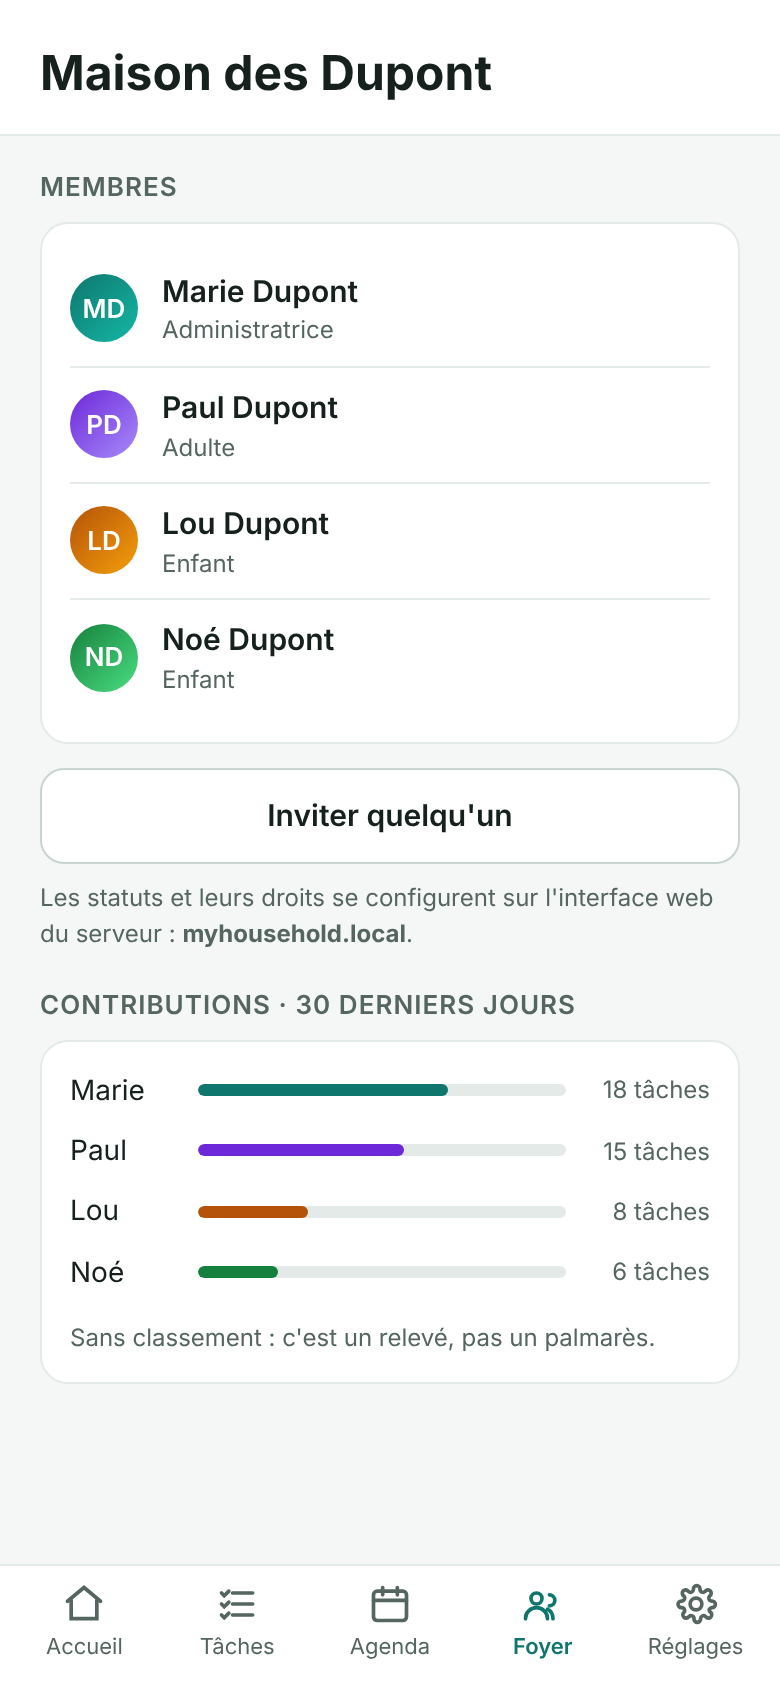
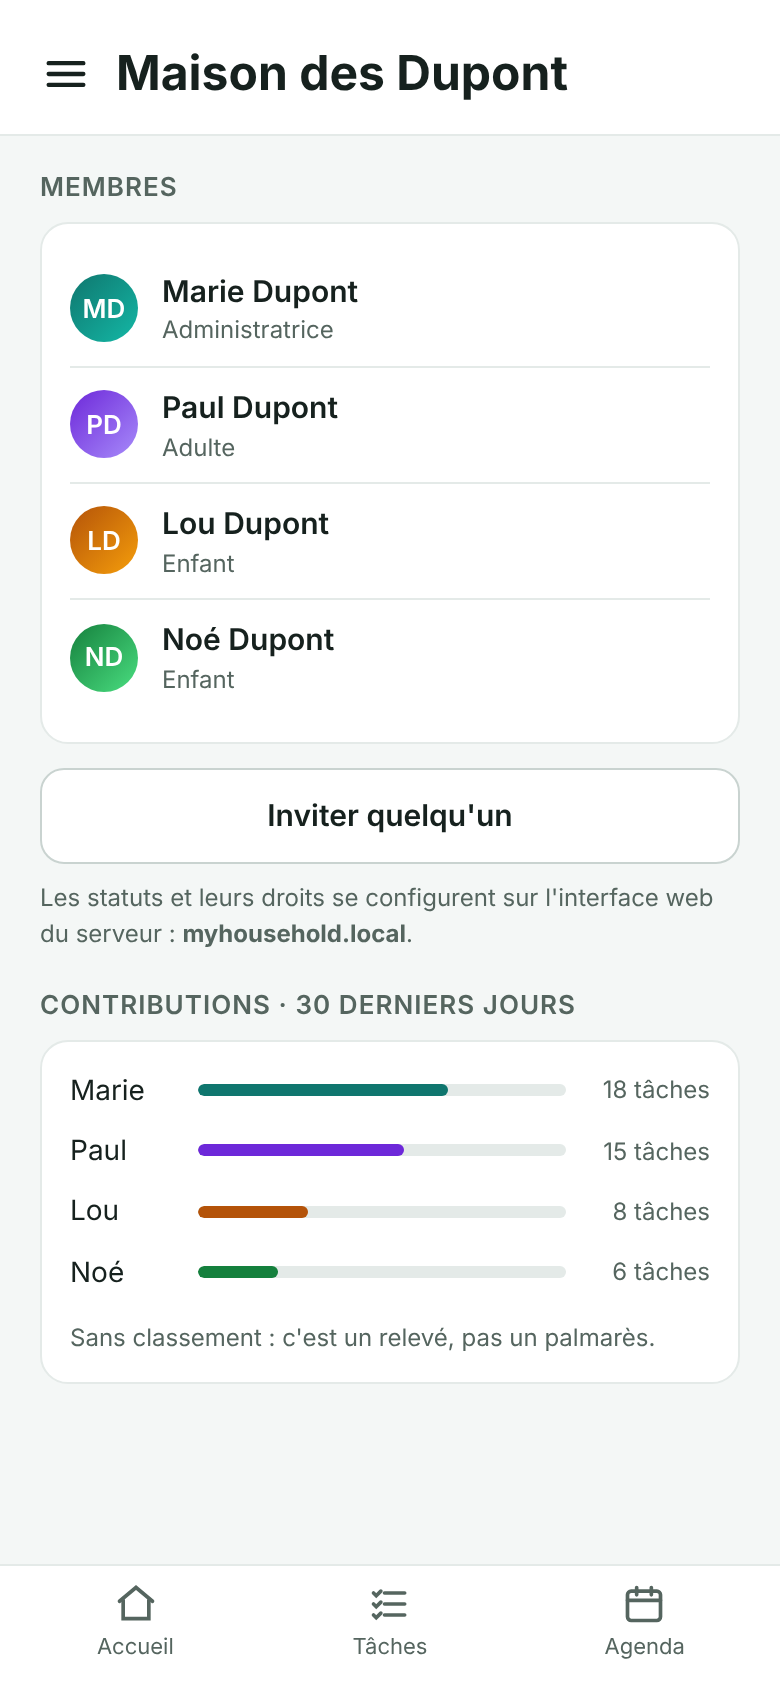
docs(maquettes): Réglages et Foyer avec le menu ☰ et trois onglets
Claude-Session: https://claude.ai/code/session_01CwM8UZavZyFdh7jkANxEp5

diff --git a/docs/mockups/7-reglages.html b/docs/mockups/7-reglages.html
@@ -1,7 +1,7 @@
 <!doctype html>
 <html lang="fr"><head><meta charset="utf-8"><title>Réglages</title><link rel="stylesheet" href="app.css"></head>
 <body>
-  <header class="entete"><h1>Réglages</h1></header>
+  <header class="entete"><div class="ligne"><svg viewBox="0 0 24 24" width="26" height="26" fill="none" stroke="currentColor" stroke-width="2" stroke-linecap="round"><path d="M4 7h16M4 12h16M4 17h16"/></svg><h1>Réglages</h1></div></header>
 
   <div class="corps" style="gap:16px">
     <div class="carte">
@@ -51,7 +51,5 @@
   <div class="N1"><svg viewBox="0 0 24 24" fill="none" stroke="currentColor" stroke-width="2" stroke-linecap="round"><path d="M3 10.5 12 3l9 7.5"/><path d="M5 10v10h14V10"/></svg>Accueil</div>
   <div class="N2"><svg viewBox="0 0 24 24" fill="none" stroke="currentColor" stroke-width="2" stroke-linecap="round"><path d="M9 6h11M9 12h11M9 18h11"/><path d="m3 6 1.5 1.5L7 5M3 12l1.5 1.5L7 11M3 18l1.5 1.5L7 17"/></svg>Tâches</div>
   <div class="N3"><svg viewBox="0 0 24 24" fill="none" stroke="currentColor" stroke-width="2" stroke-linecap="round"><rect x="3" y="5" width="18" height="16" rx="2"/><path d="M8 3v4M16 3v4M3 10h18"/></svg>Agenda</div>
-  <div class="N4"><svg viewBox="0 0 24 24" fill="none" stroke="currentColor" stroke-width="2" stroke-linecap="round"><circle cx="9" cy="9" r="3"/><path d="M3 20a6 6 0 0 1 12 0M16 7a3 3 0 0 1 0 6M18 20a6 6 0 0 0-3-5.2"/></svg>Foyer</div>
-  <div class="N5 actif"><svg viewBox="0 0 24 24" fill="none" stroke="currentColor" stroke-width="2" stroke-linecap="round"><circle cx="12" cy="12" r="3.2"/><path d="M19.4 14.5a1.6 1.6 0 0 0 .3 1.8l.1.1a1.8 1.8 0 1 1-2.5 2.5l-.1-.1a1.6 1.6 0 0 0-2.7 1.1v.3a1.8 1.8 0 1 1-3.6 0v-.2a1.6 1.6 0 0 0-2.7-1.2l-.1.1a1.8 1.8 0 1 1-2.5-2.5l.1-.1A1.6 1.6 0 0 0 4 14a1.8 1.8 0 0 1 0-3.6h.2A1.6 1.6 0 0 0 5.4 7.7l-.1-.1a1.8 1.8 0 1 1 2.5-2.5l.1.1a1.6 1.6 0 0 0 2.7-1.1V3.8a1.8 1.8 0 1 1 3.6 0V4a1.6 1.6 0 0 0 2.7 1.2l.1-.1a1.8 1.8 0 1 1 2.5 2.5l-.1.1a1.6 1.6 0 0 0 1.1 2.7h.3a1.8 1.8 0 1 1 0 3.6h-.2a1.6 1.6 0 0 0-1.2 1z"/></svg>Réglages</div>
 </nav>
 </body></html>

diff --git a/docs/mockups/6-foyer.html b/docs/mockups/6-foyer.html
@@ -3,7 +3,7 @@
 <body>
   <!-- Pas de sous-titre : « 4 membres · Europe/Paris » disait ce que la
        liste juste en dessous montre déjà. -->
-  <header class="entete"><h1>Maison des Dupont</h1></header>
+  <header class="entete"><div class="ligne"><svg viewBox="0 0 24 24" width="26" height="26" fill="none" stroke="currentColor" stroke-width="2" stroke-linecap="round"><path d="M4 7h16M4 12h16M4 17h16"/></svg><h1>Maison des Dupont</h1></div></header>
 
   <div class="corps">
     <div class="section">
@@ -59,7 +59,5 @@
   <div class="N1"><svg viewBox="0 0 24 24" fill="none" stroke="currentColor" stroke-width="2" stroke-linecap="round"><path d="M3 10.5 12 3l9 7.5"/><path d="M5 10v10h14V10"/></svg>Accueil</div>
   <div class="N2"><svg viewBox="0 0 24 24" fill="none" stroke="currentColor" stroke-width="2" stroke-linecap="round"><path d="M9 6h11M9 12h11M9 18h11"/><path d="m3 6 1.5 1.5L7 5M3 12l1.5 1.5L7 11M3 18l1.5 1.5L7 17"/></svg>Tâches</div>
   <div class="N3"><svg viewBox="0 0 24 24" fill="none" stroke="currentColor" stroke-width="2" stroke-linecap="round"><rect x="3" y="5" width="18" height="16" rx="2"/><path d="M8 3v4M16 3v4M3 10h18"/></svg>Agenda</div>
-  <div class="N4 actif"><svg viewBox="0 0 24 24" fill="none" stroke="currentColor" stroke-width="2" stroke-linecap="round"><circle cx="9" cy="9" r="3"/><path d="M3 20a6 6 0 0 1 12 0M16 7a3 3 0 0 1 0 6M18 20a6 6 0 0 0-3-5.2"/></svg>Foyer</div>
-  <div class="N5"><svg viewBox="0 0 24 24" fill="none" stroke="currentColor" stroke-width="2" stroke-linecap="round"><circle cx="12" cy="12" r="3.2"/><path d="M19.4 14.5a1.6 1.6 0 0 0 .3 1.8l.1.1a1.8 1.8 0 1 1-2.5 2.5l-.1-.1a1.6 1.6 0 0 0-2.7 1.1v.3a1.8 1.8 0 1 1-3.6 0v-.2a1.6 1.6 0 0 0-2.7-1.2l-.1.1a1.8 1.8 0 1 1-2.5-2.5l.1-.1A1.6 1.6 0 0 0 4 14a1.8 1.8 0 0 1 0-3.6h.2A1.6 1.6 0 0 0 5.4 7.7l-.1-.1a1.8 1.8 0 1 1 2.5-2.5l.1.1a1.6 1.6 0 0 0 2.7-1.1V3.8a1.8 1.8 0 1 1 3.6 0V4a1.6 1.6 0 0 0 2.7 1.2l.1-.1a1.8 1.8 0 1 1 2.5 2.5l-.1.1a1.6 1.6 0 0 0 1.1 2.7h.3a1.8 1.8 0 1 1 0 3.6h-.2a1.6 1.6 0 0 0-1.2 1z"/></svg>Réglages</div>
 </nav>
 </body></html>
